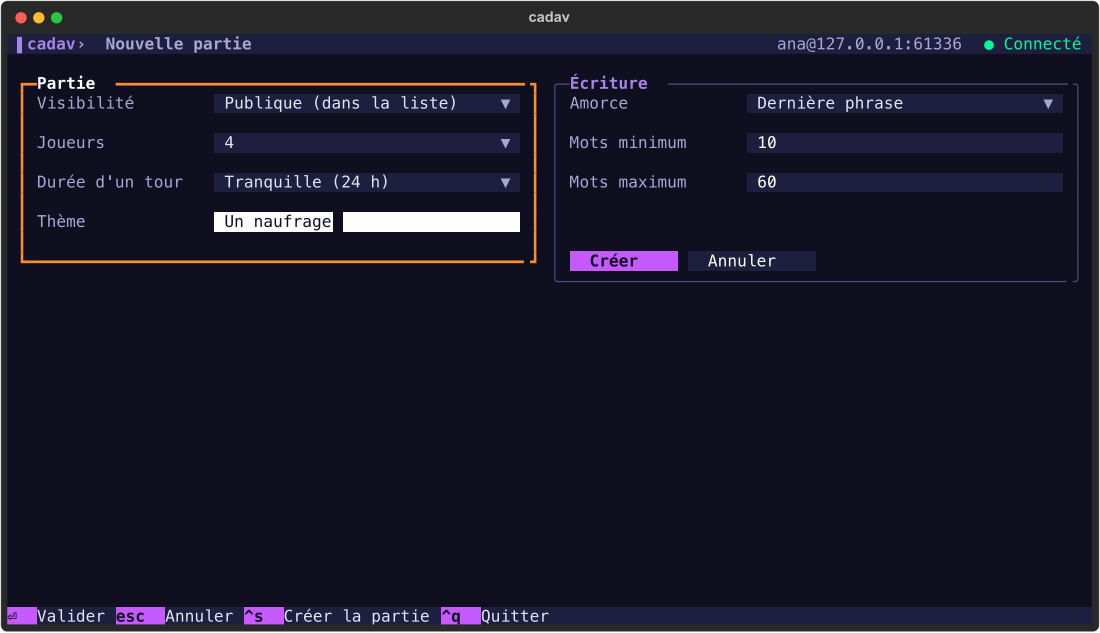
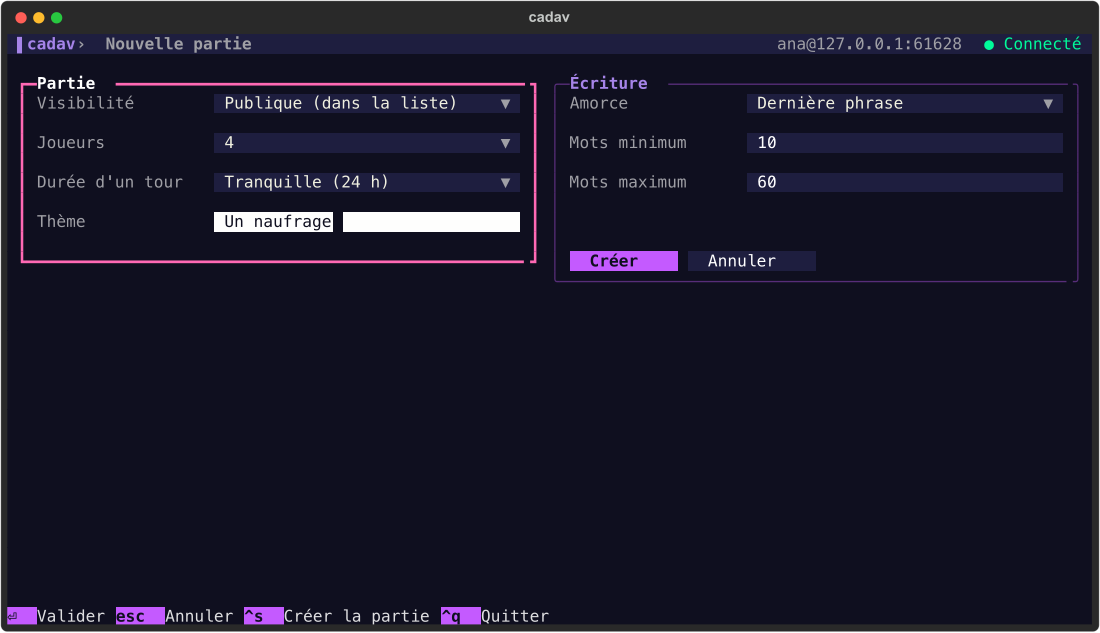
Thème : reprise exacte du thème galaxy de Posting (accent rose, pied de page transparent)

diff --git a/cadav/client/theme.py b/cadav/client/theme.py
@@ -25,7 +25,7 @@ class Palette:
     surface: str  # bars, fields
     panel: str
     border_dim: str  # border of a panel that does not have the focus
-    foreground: str  # body text
+    foreground: str | None  # body text; None = let Textual pick a readable text colour
     strong: str  # emphasised text
     muted: str  # labels, placeholders, hints
     primary: str
@@ -39,25 +39,27 @@ class Palette:
     editing: str  # background of a field being edited
 
 
-# Posting's default theme, "galaxy" (colours from its themes.py), with an orange accent and a few derived shades.
+# Posting's default theme, "galaxy": the colours below are those of its themes.py (primary, secondary,
+# warning, error, success, accent, background, surface, panel), without any change. The remaining
+# fields are shades derived from them (no text colour: Textual computes it, as it does for Posting).
 GALAXY = Palette(
     name="galaxy",
     dark=True,
     background="#0F0F1F",
     surface="#1E1E3F",
     panel="#2D2B55",
-    border_dim="#4b4780",
-    foreground="#e4e4f2",
+    border_dim="#572d79",  # primary at 40% over the background
+    foreground=None,
     strong="#ffffff",
-    muted="#a9a6d6",
+    muted="#9f9fa5",  # white at 60%
     primary="#C45AFF",
     secondary="#a684e8",
-    accent="#FF8C32",  # orange
+    accent="#FF69B4",
     success="#00FA9A",
     warning="#FFD700",
     error="#FF4500",
     highlight="#4b2c7a",
-    focus="#FF8C32",
+    focus="#FF69B4",  # the accent
     editing="#ffffff",
 )
 
@@ -111,6 +113,7 @@ def build_theme(p: Palette) -> Theme:
         error=p.error,
         dark=p.dark,
         variables={
+            "cadav-text": "auto 87%" if p.foreground is None else p.foreground,
             "cadav-strong": p.strong,
             "cadav-muted": p.muted,
             "cadav-highlight": p.highlight,
@@ -122,8 +125,9 @@ def build_theme(p: Palette) -> Theme:
             "border-blurred": p.border_dim,
             "footer-key-foreground": p.background,
             "footer-key-background": p.primary,
-            "footer-description-foreground": p.foreground,
-            "footer-background": p.surface,
+            "footer-description-foreground": "auto 87%" if p.foreground is None else p.foreground,
+            "footer-background": "transparent",
+            "input-cursor-background": p.primary,
             "input-selection-background": f"{p.primary} 50%",
             "block-cursor-background": p.focus,
             "block-cursor-foreground": p.background,
@@ -137,16 +141,16 @@ def chip(label: str, color: str, fg: str | None = None) -> Text:
 
 
 APP_CSS = """
-Screen { background: $background; color: $foreground; }
+Screen { background: $background; color: $cadav-text; }
 
 /* top bar and footer */
 TopBar { height: 1; dock: top; background: $surface; padding: 0 1; }
 TopBar #brand { width: 1fr; color: $secondary; text-style: bold; }
 TopBar #status { width: auto; color: $cadav-muted; }
-Footer { background: $surface; }
-FooterKey { background: $surface; }
+Footer { background: $footer-background; }
+FooterKey { background: $footer-background; }
 FooterKey .footer-key--key { background: $primary; color: $cadav-on-color; text-style: bold; }
-FooterKey .footer-key--description { color: $foreground; background: $surface; }
+FooterKey .footer-key--description { color: $cadav-text; background: $footer-background; }
 
 /* panels: rounded border with the title inside; heavy accent border when they hold the focus */
 .pane {
@@ -163,7 +167,7 @@ FooterKey .footer-key--description { color: $foreground; background: $surface; }
 /* lists: the row that has the focus is drawn in inverse video */
 OptionList { border: none; background: transparent; padding: 0; height: auto; min-height: 3; max-height: 12; }
 OptionList:focus { border: none; background: transparent; }
-OptionList > .option-list--option { padding: 0 1; color: $foreground; }
+OptionList > .option-list--option { padding: 0 1; color: $cadav-text; }
 OptionList > .option-list--option-highlighted { background: $cadav-highlight; color: $cadav-strong; text-style: none; }
 OptionList:focus > .option-list--option-highlighted { background: $cadav-focus; color: $cadav-on-color; text-style: none; }
 OptionList > .option-list--option-disabled { color: $cadav-muted; }
@@ -185,7 +189,7 @@ Select > SelectCurrent { border: none; height: 1; padding: 0 1; background: $sur
 Select:focus > SelectCurrent { border: none; background: $cadav-focus; color: $cadav-on-color; text-style: bold; }
 SelectCurrent .arrow { color: $cadav-muted; }
 Select:focus > SelectCurrent .arrow { color: $cadav-on-color; }
-SelectOverlay { border: round $accent; background: $surface; color: $foreground; }
+SelectOverlay { border: round $accent; background: $surface; color: $cadav-text; }
 
 /* compact buttons */
 Button { min-width: 0; height: 1; border: none; padding: 0 2; margin-right: 1; background: $surface; color: $cadav-strong; text-style: none; }

diff --git a/cahier-des-charges.md b/cahier-des-charges.md
@@ -1,4 +1,4 @@
-# cadav, cadavre exquis en terminal — Cahier des charges v1 (révision 10)
+# cadav, cadavre exquis en terminal — Cahier des charges v1 (révision 11)
 
 ## 1. Objectif
 Jeu de cadavre exquis textuel multijoueur, joué dans le terminal via une TUI. Un serveur central gère le lobby et toutes les parties. Les joueurs s'inscrivent (très léger), créent ou rejoignent des parties en attente de joueurs, et écrivent à tour de rôle une histoire commune.
@@ -97,7 +97,7 @@ Pas de message dédié à l'expiration d'une salle d'attente : le serveur envoie
 - Écriture atomique (fichier temporaire puis `os.replace`). Rechargement et replanification des échéances au démarrage.
 
 ## 11. Interface (Textual)
-Direction graphique : un vrai TUI, dans l'esprit de [Posting](https://posting.sh/) (réalisé avec Textual) : thème de base de Posting (« galaxy ») avec un accent orange, et palette Solarized dark en option (`--theme solarized-dark` ou clé `theme` de la configuration) ; un thème clair pourra venir plus tard : toutes les couleurs sont dans une `Palette`, panneaux à bordure arrondie dont le titre est dans la bordure, champs de formulaire d'une ligne, pastilles de couleur pour les états, barre du haut (nom de l'écran, `pseudo@serveur ● état`), pied de page avec les raccourcis, pilotage au clavier d'abord (la souris reste possible). Pas de palette de commandes.
+Direction graphique : un vrai TUI, dans l'esprit de [Posting](https://posting.sh/) (réalisé avec Textual) : thème de base de Posting (« galaxy »), repris tel quel, et palette Solarized dark en option (`--theme solarized-dark` ou clé `theme` de la configuration) ; un thème clair pourra venir plus tard : toutes les couleurs sont dans une `Palette`, panneaux à bordure arrondie dont le titre est dans la bordure, champs de formulaire d'une ligne, pastilles de couleur pour les états, barre du haut (nom de l'écran, `pseudo@serveur ● état`), pied de page avec les raccourcis, pilotage au clavier d'abord (la souris reste possible). Pas de palette de commandes.
 
 Modèle de navigation (accessibilité) : les flèches et `Tab` / `Maj+Tab` passent d'un élément à l'autre ; `Entrée` ou `Espace` entre dans la modification d'un champ ou d'un choix, et taper du texte ou un chiffre sur une cellule commence la saisie (elle remplace le contenu) ; `Échap` en sort en annulant, `Entrée` en sort en validant (`Espace` valide aussi un menu ouvert). Hors modification, un champ ne capte pas les flèches. Tous les raccourcis généraux du pied de page utilisent `Ctrl` (`Échap` reste la touche d'annulation).
 
@@ -176,7 +176,7 @@ Notifications push (ntfy.sh ou webhook), i18n. Idées plus lointaines : mode gui
 - Salle d'attente : code, joueurs (♛ = hôte), réglages, prochaine étape. `Ctrl+L` lance (hôte, 3 joueurs minimum), `Ctrl+O` quitte la partie, `Échap` revient au lobby.
 - Les captures du README se régénèrent avec `scripts/screenshots.py` (serveur jetable + pilote de test Textual + `rsvg-convert`).
 
-## 20. Navigation clavier, installation (révision 10)
+## 20. Navigation clavier, installation (révision 11)
 - `cadav/client/widgets.py` : `NavInput` (champ à deux modes), `NavSelect` (choix : seuls `Entrée` et `Espace` l'ouvrent, `↑` `↓` ne l'ouvrent plus) et `NavOptionList` (liste qui passe le focus à l'élément voisin à ses extrémités, `Espace` comme `Entrée`). Les touches de navigation globales (`↑` `←` précédent, `↓` `→` suivant, `Tab`) sont des liaisons de l'application ; un menu ouvert ou un champ en cours de modification les reçoit en premier.
 - Hors modification, `NavInput` ne consomme ni les flèches ni `Espace` (voir §21 pour la saisie directe). En modification, `↑` et `↓` sont sans effet, `←` `→` déplacent le curseur, un clic entre dans le champ, et perdre le focus valide la saisie.
 - `Entrée` dans un champ ne fait que valider le champ (sauf le champ « code » du lobby, qui rejoint la partie). Sur l'écran de connexion, on valide la connexion avec le bouton « Entrer ».
@@ -184,10 +184,10 @@ Notifications push (ntfy.sh ou webhook), i18n. Idées plus lointaines : mode gui
 - Le paquet Python s'appelle `cadav/` (renommé depuis `cadavre/`). La commande est installable globalement : `uv tool install --editable .` (ou `pipx install --editable .`) place `cadav` dans `~/.local/bin`.
 - Données du serveur par défaut : `$XDG_DATA_HOME/cadav` ou `~/.local/share/cadav` (et non plus `./data`), pour que `cadav serve` se comporte de la même façon quel que soit le dossier courant.
 
-## 21. Palette, focus, saisie directe (révision 10)
-- Palette par défaut : « galaxy », le thème de base de Posting (fond `#0F0F1F`, surfaces `#1E1E3F` et `#2D2B55`, primaire `#C45AFF`, secondaire `#a684e8`) avec l'accent **orange** `#FF8C32`. Option : `solarized-dark` (accent orange Solarized `#cb4b16`). Choix par `cadav play --theme …` ou par la clé `theme` de `config.json`.
+## 21. Palette, focus, saisie directe (révision 11)
+- Palette par défaut : « galaxy », le thème de base de Posting repris sans modification (fichier `themes.py` de Posting) : primaire `#C45AFF`, secondaire `#a684e8`, avertissement `#FFD700`, erreur `#FF4500`, succès `#00FA9A`, accent `#FF69B4`, fond `#0F0F1F`, surface `#1E1E3F`, panneau `#2D2B55`, pied de page transparent, curseur de saisie `#C45AFF`. Pas de couleur de texte imposée : Textual la calcule, comme pour Posting (`auto 87 %`). Les nuances propres à cadav (gris du texte secondaire, ligne sélectionnée `#4b2c7a`, bordure atténuée, blanc d'édition) sont dérivées de ces couleurs. Option : `solarized-dark` (accent orange Solarized `#cb4b16`). Choix par `cadav play --theme …` ou par la clé `theme` de `config.json`.
 - La feuille de style n'emploie que des variables de thème (`$accent`, `$cadav-focus`, `$cadav-editing`…) ; les styles Rich des écrans lisent la palette courante (`theme.colors`).
-- Focus : l'élément qui a le focus est en vidéo inverse (fond orange, texte de la couleur du fond, rapport de contraste d'environ 7:1 avec « galaxy ») ; son panneau a une bordure épaisse orange et un titre blanc ; la ligne sélectionnée d'une liste sans focus est en violet foncé ; un champ en cours de modification est blanc, curseur inversé. Le second texte des lignes de liste n'est jamais grisé, pour rester lisible en vidéo inverse.
+- Focus : l'élément qui a le focus est en vidéo inverse (fond rose d'accentuation, texte de la couleur du fond, rapport de contraste d'environ 7:1 avec « galaxy ») ; son panneau a une bordure épaisse rose et un titre blanc ; la ligne sélectionnée d'une liste sans focus est en violet foncé ; un champ en cours de modification est blanc, curseur inversé. Le second texte des lignes de liste n'est jamais grisé, pour rester lisible en vidéo inverse.
 - Raccourcis : Lobby `Ctrl+N` (nouvelle partie), `Ctrl+K` (code) ; Création `Ctrl+S` ; Salle d'attente `Ctrl+L` (lancer), `Ctrl+O` (quitter la partie) ; partout `Ctrl+Q`, `Échap` pour revenir. Les lettres sont donc toujours du texte.
 - Saisie directe : sur un `NavInput` qui n'est pas en modification, un caractère imprimable (sauf Espace) entre en modification, vide le champ et s'y inscrit ; `Échap` rétablit la valeur d'avant. Sur un `NavSelect` fermé, taper une lettre ou un chiffre (accumulés pendant 1 s) choisit la première option correspondante. Dans le menu ouvert, `Espace` valide comme `Entrée`.
 

diff --git a/README.md b/README.md
@@ -55,7 +55,7 @@ Le détail des règles et des décisions est dans le [cahier des charges](cahier
 ## Aperçu
 
 Une interface de terminal pensée pour le clavier, dans l'esprit de [Posting](https://posting.sh/) (bâtie comme lui avec
-Textual), avec le thème de base de Posting (« galaxy ») et un accent orange. Une palette
+Textual), avec exactement le thème de base de Posting (« galaxy »). Une palette
 [Solarized](https://ethanschoonover.com/solarized/) dark est aussi disponible : `cadav play --theme solarized-dark`.
 
 | Connexion | Le lobby |
@@ -82,7 +82,7 @@ Tout se fait sans souris, avec deux modes :
   changer ; sur un choix fermé, taper une lettre ou un chiffre saute à l'option correspondante.
 
 Les raccourcis généraux affichés en bas de la fenêtre utilisent tous `Ctrl`, pour ne jamais gêner la saisie. L'élément qui a
-le focus est dessiné en couleur pleine (orange), son panneau reçoit une bordure épaisse orange, et un champ en cours de
+le focus est dessiné en couleur pleine (le rose d'accentuation du thème), son panneau reçoit une bordure épaisse rose, et un champ en cours de
 modification passe en blanc.
 
 | Écran | Touches | Effet |
